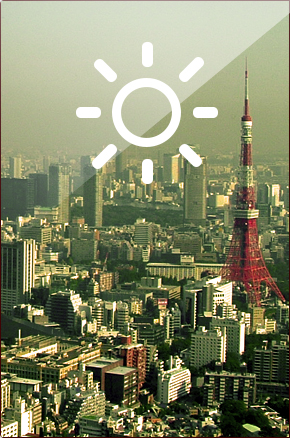
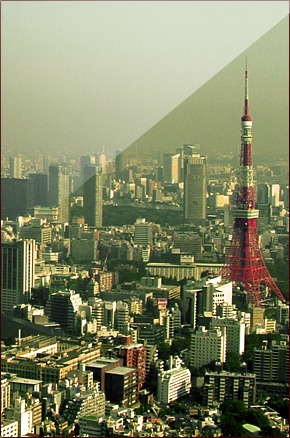
White sun added as a background

diff --git a/css/styles.css b/css/styles.css
@@ -50,7 +50,8 @@ body{
   box-sizing: border-box;
 }
 .sun_wrapper{
-  height: 243px;
+  height: 241px;
+  background: url(../img/icons/sun_white.png) center no-repeat;
 }
 #rect_brown{
   background-color: rgba(46, 28, 37, 0.89);
@@ -95,7 +96,7 @@ body{
   padding-bottom: 16px;
   margin-top: 4px;
   border-bottom: 1px solid rgb(119, 25, 33);
-  border-top: 1px solid rgb(119, 25, 33);  
+  border-top: 1px solid rgb(119, 25, 33);
 }
 .future_temperature{
   list-style: none;
